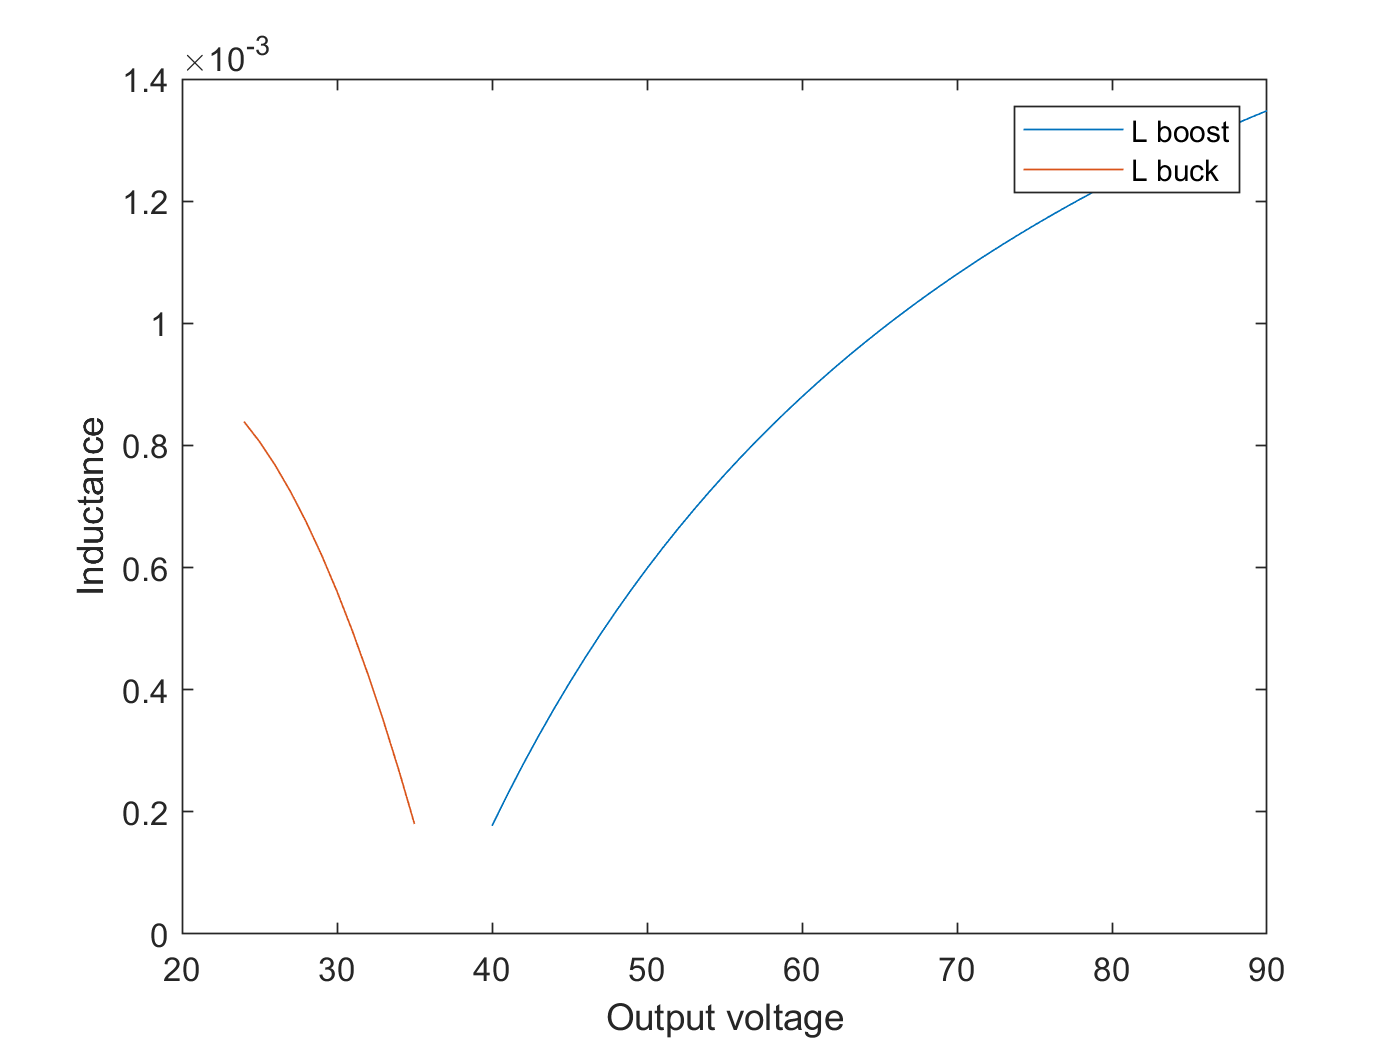
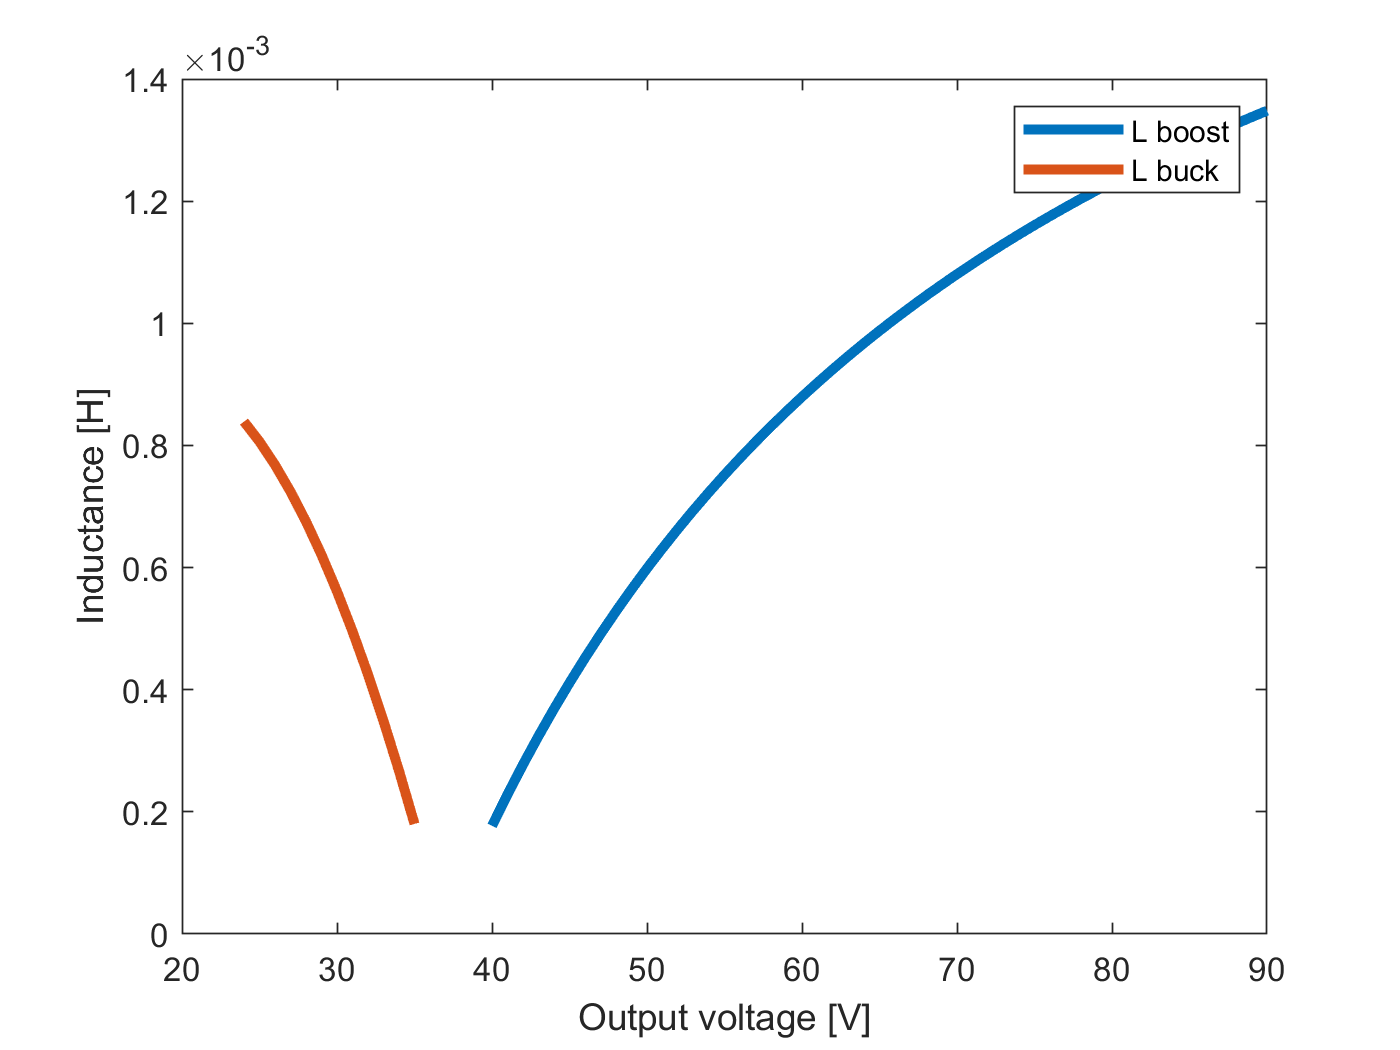
Passive components sizing

diff --git a/Calculation/ComponentSizing/Cin_Cout_L_size_plot.m b/Calculation/ComponentSizing/Cin_Cout_L_size_plot.m
@@ -11,6 +11,7 @@ Vin_ripple = 0.001;
 Vout_ripple = 0.005;
 Current_ripple = 0.1;
 fsw = 50e3;
+L=1.3e-3;
 
 L_boost = (Vmpp*(1-Vmpp./voltages_boost)./(Current_ripple * Impp_400 * fsw));
 L_buck = (Vmpp - voltages_buck).*(voltages_buck./Vmpp)/(2 * Current_ripple * fsw);%to be checked
@@ -18,32 +19,33 @@ L_buck = (Vmpp - voltages_buck).*(voltages_buck./Vmpp)/(2 * Current_ripple * fsw
 %Cin_boost = ()/()
 Cin_buck = (P/Vmpp * (1 - voltages_buck/Vmpp)/(Vin_ripple * Vmpp * fsw));
 
-Cout_buck = (voltages_buck.^2/P .* (1 - voltages_buck ./ Vmpp))./(Vout_ripple .* voltages_buck .* fsw);
+%Cout_buck = (voltages_buck.^2/P .* (1 - voltages_buck ./ Vmpp))./(Vout_ripple .* voltages_buck .* fsw);
+Cout_buck = ((voltages_buck ./ Vmpp) .* Vmpp .* (1- voltages_buck ./ Vmpp)) ./ (L .* 8 .* fsw^2 .* Vout_ripple .* voltages_buck);
 Cout_boost = (P./voltages_boost .* (1 - Vmpp./voltages_boost)./(Vout_ripple .* voltages_boost * fsw));
 
 figure(1)
-plot(voltages_boost, Cout_boost)
+plot(voltages_boost, Cout_boost, 'linewidth', 3)
 hold on
-plot(voltages_buck, Cout_buck)
+plot(voltages_buck, Cout_buck, 'linewidth', 3)
 hold off
 legend('Cout boost', 'Cout buck')
-xlabel('Output voltage');
-ylabel('Capacitance');
+xlabel('Output voltage [V]');
+ylabel('Capacitance [F]');
 
 figure(2)
-plot(voltages_boost, L_boost)
+plot(voltages_boost, L_boost, 'linewidth', 3)
 hold on
-plot(voltages_buck, L_buck)
+plot(voltages_buck, L_buck, 'linewidth', 3)
 hold off
 legend('L boost', 'L buck')
-xlabel('Output voltage');
-ylabel('Inductance');
+xlabel('Output voltage [V]');
+ylabel('Inductance [H]');
 
 figure(3)
-plot(voltages_buck, Cin_buck)
+plot(voltages_buck, Cin_buck, 'linewidth', 3)
 legend('Cin buck')
-xlabel('Input voltage');
-ylabel('Capacitance');
+xlabel('Input voltage [V]');
+ylabel('Capacitance [F]');
 
 voltages_buck = 24;
 P=50:1:300;
